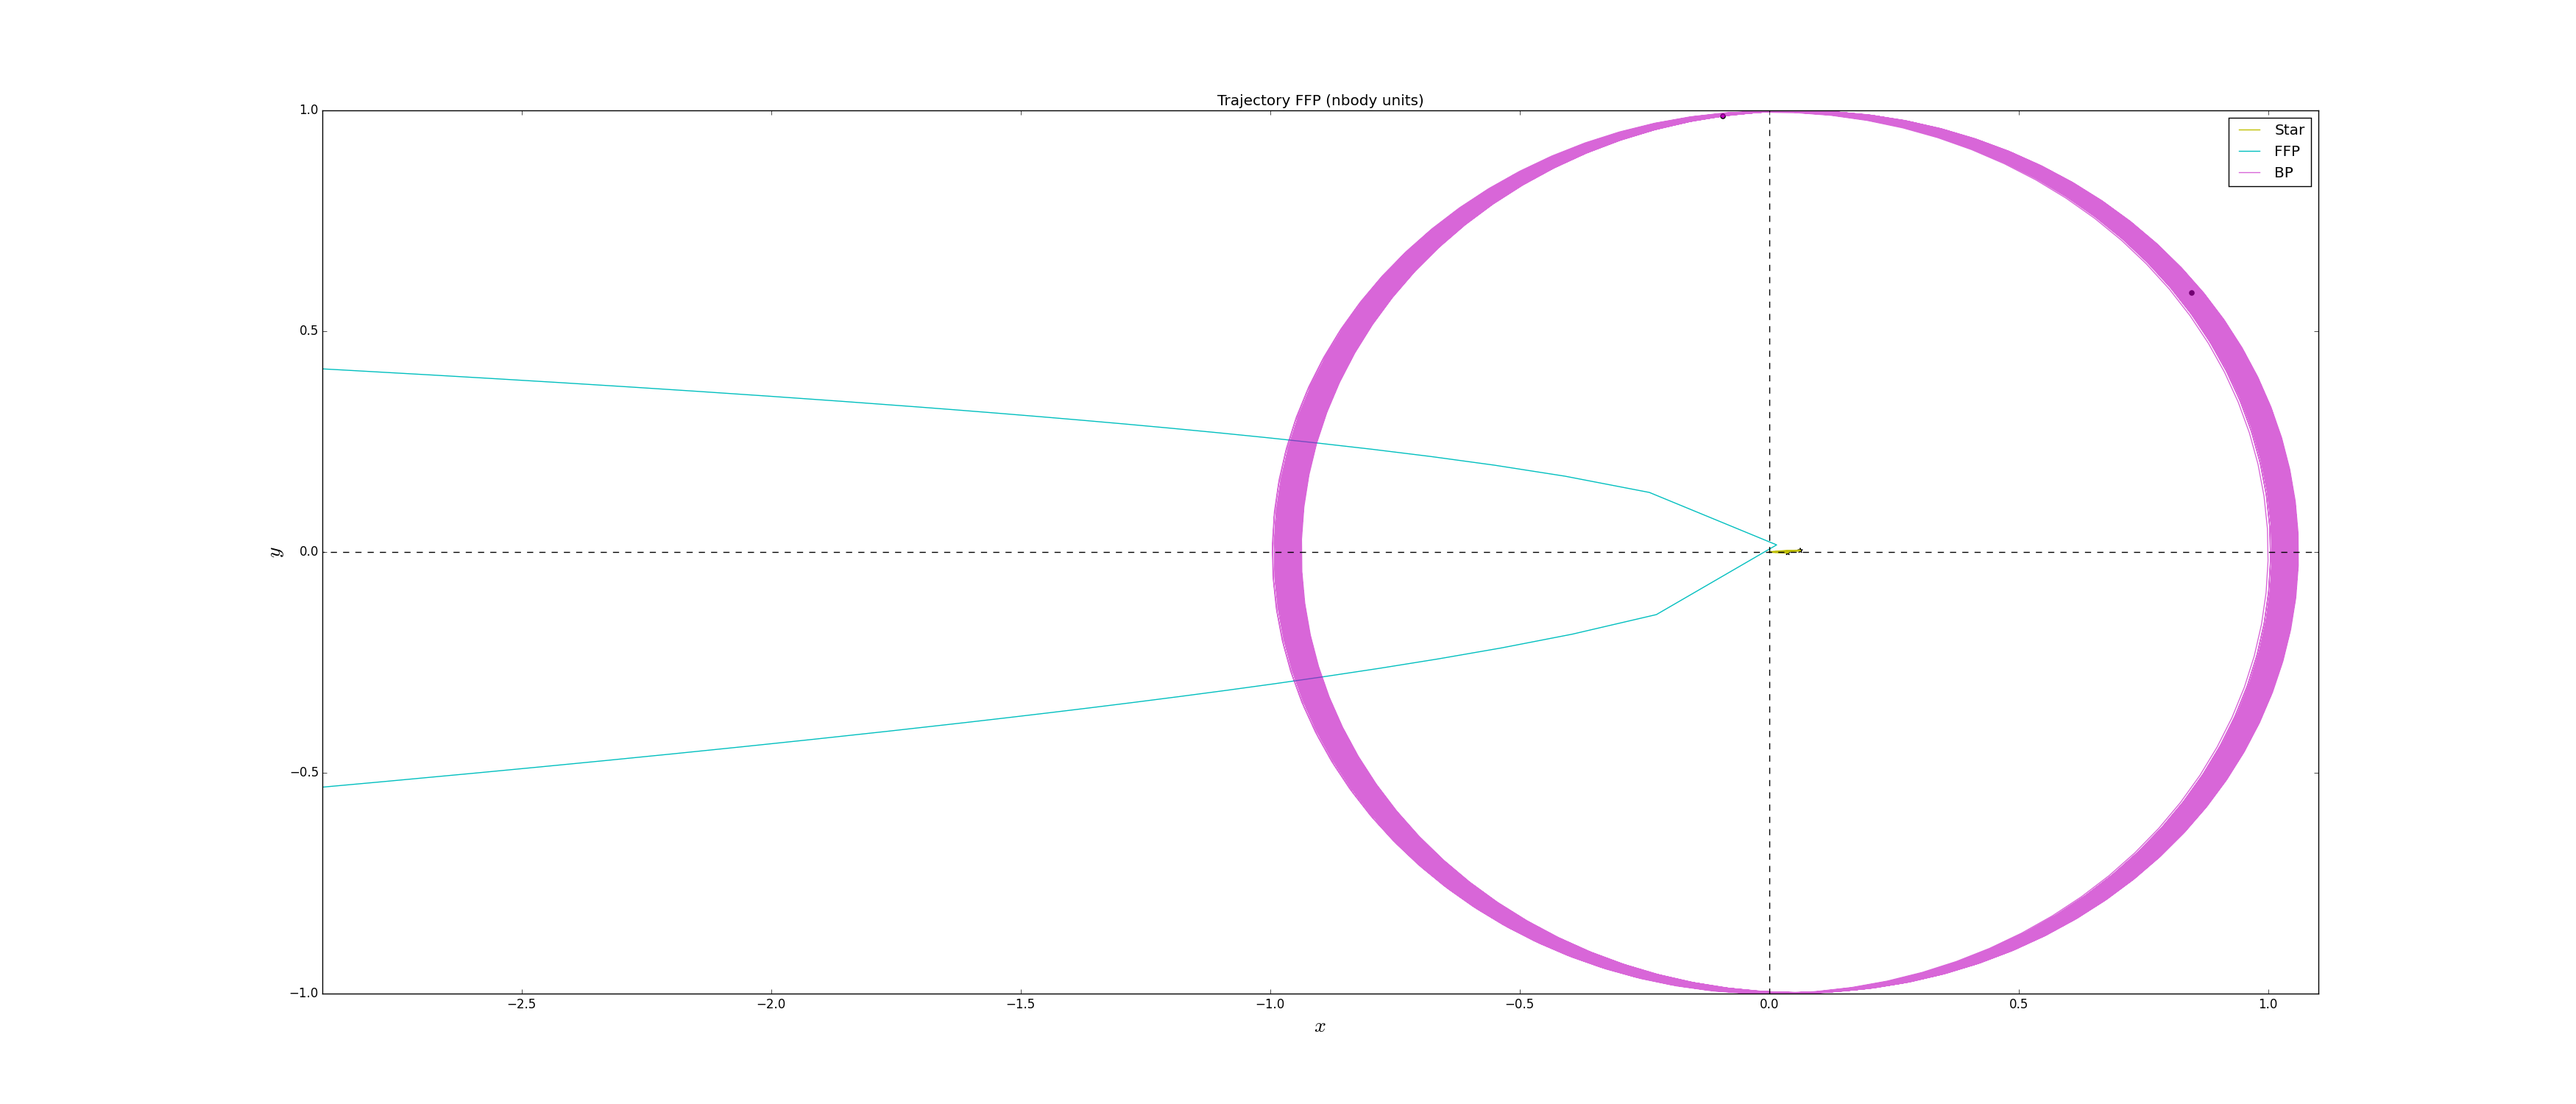
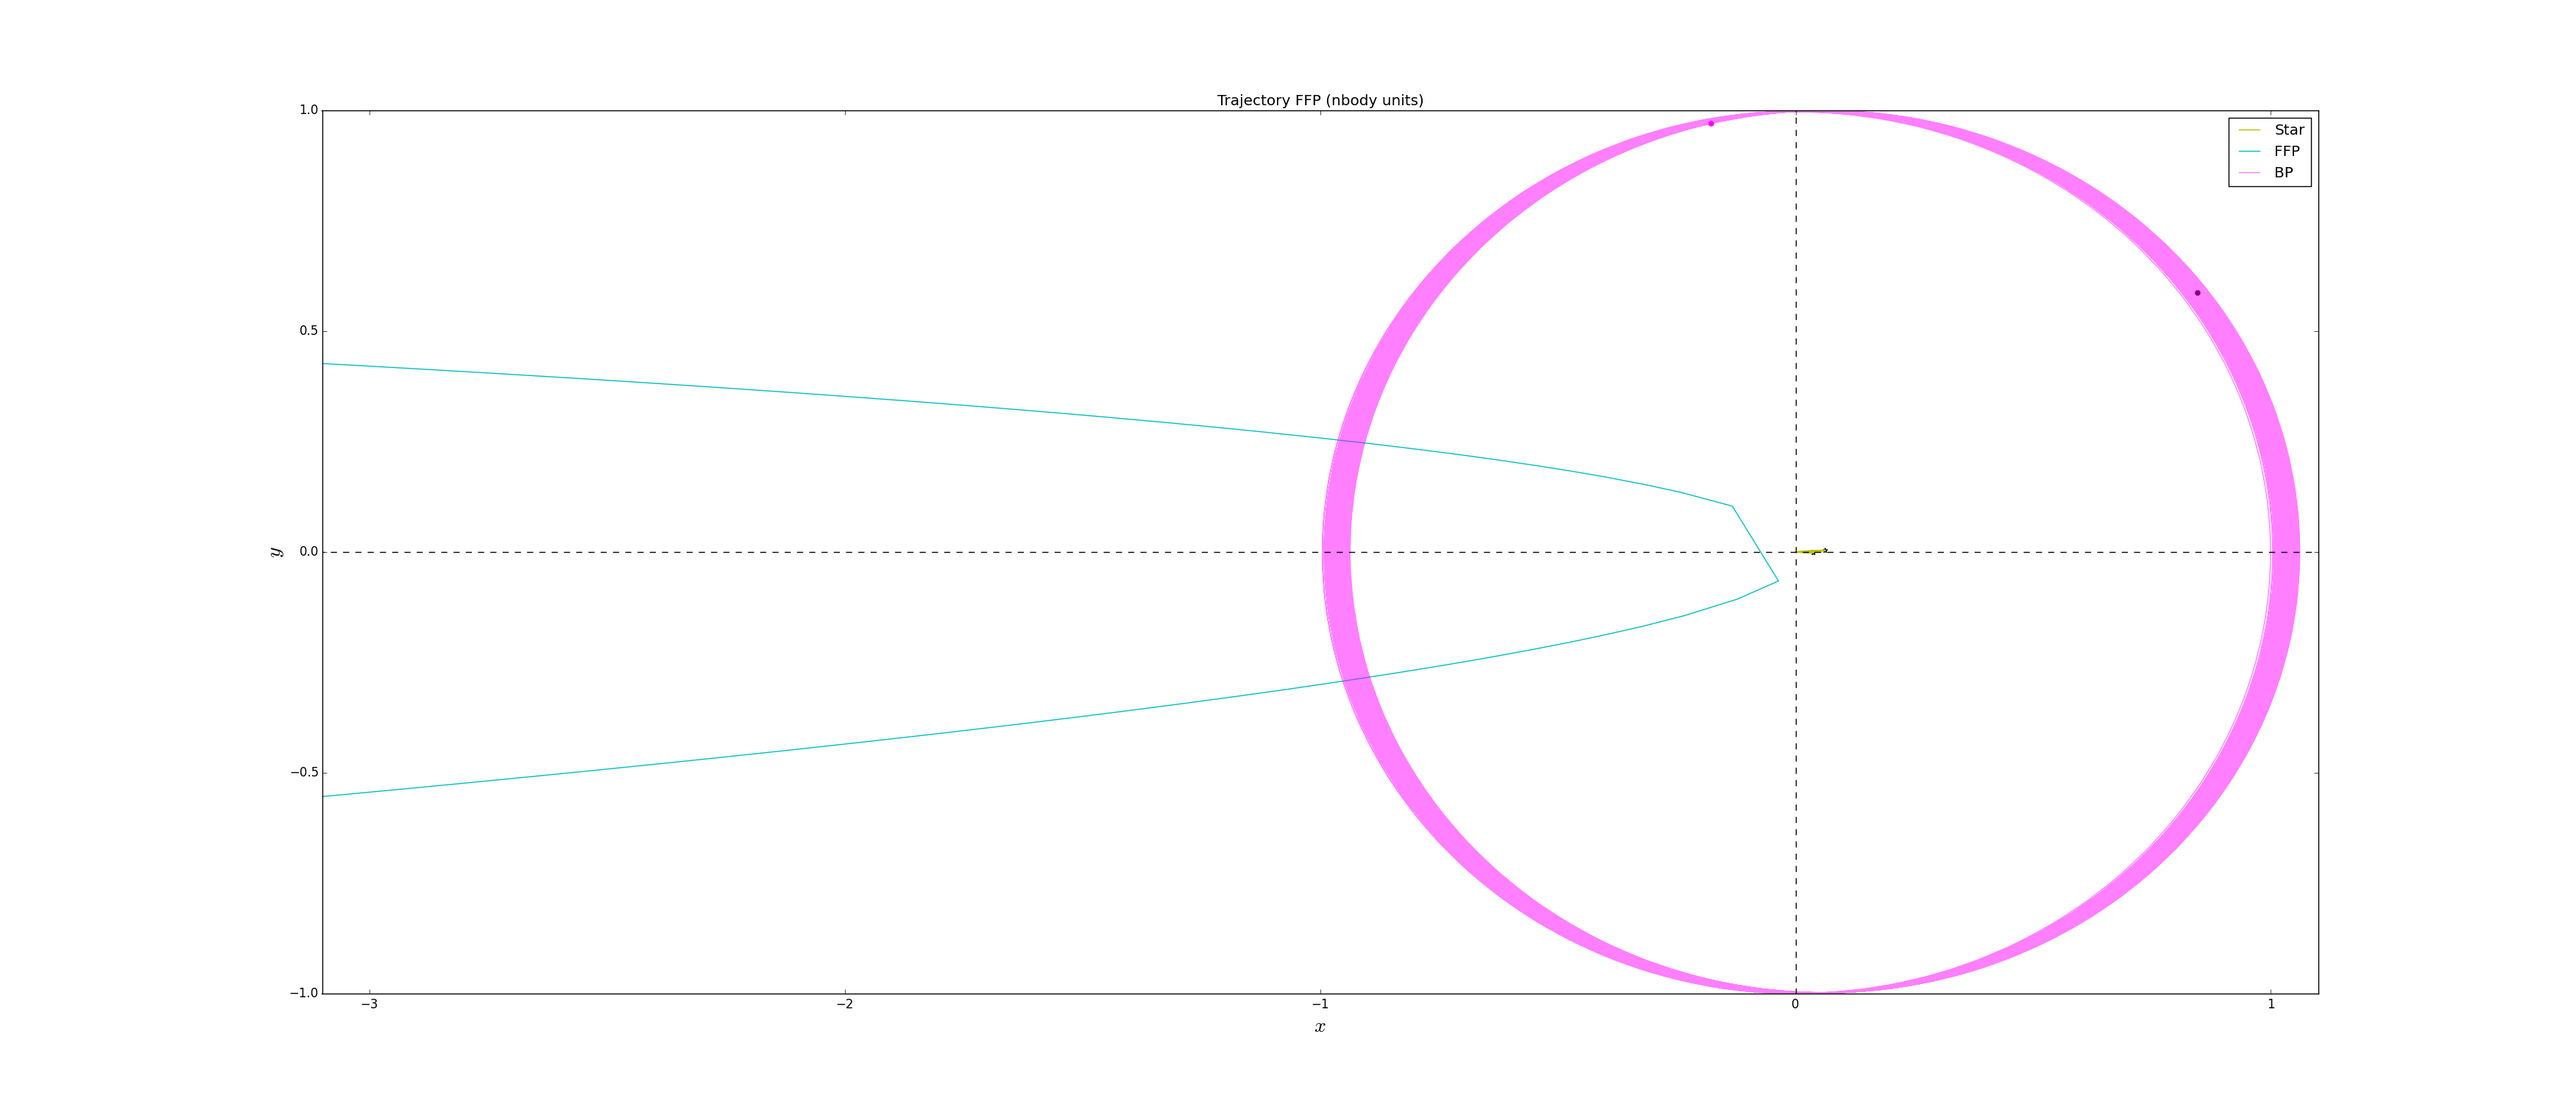
everything is working here

diff --git a/capture_ffp/capture_ffp.py b/capture_ffp/capture_ffp.py
@@ -39,21 +39,6 @@ def get_planets(m0, a_planets, m_planets, e_planets, phi=0.):
 
     return planets
 
-def get_ffp_in_orbit_2(m0, m, a, e, phi):
-
-    """
-    initialize attributes of the star and the ffp.
-    """
-
-    star_ffp = new_binary_from_orbital_elements(m0, m, a, e, true_anomaly=phi)
-    star_ffp.position -= star_ffp[0].position
-    star_ffp.velocity -= star_ffp[0].velocity
-
-    print star_ffp
-    print 'v_inf_orb =',(star_ffp[1].vx**2+star_ffp[1].vy**2+star_ffp[1].vz**2).sqrt()
-
-    return star_ffp
-
 def get_ffp_in_orbit(m0, b_ffp, vinf_ffp, m_ffp, r_inf):
     """
     initialize attributes of the star and the ffp.
@@ -77,6 +62,21 @@ def get_ffp_in_orbit(m0, b_ffp, vinf_ffp, m_ffp, r_inf):
     m0_and_ffp_in_orbit[1].vz = 0. | nbody_system.speed
 
     return m0_and_ffp_in_orbit
+
+def get_ffp_in_orbit_2(m0, m, a, e, phi):
+
+    """
+    initialize attributes of the star and the ffp.
+    """
+
+    star_ffp = new_binary_from_orbital_elements(m0, m, a, e, true_anomaly=phi)
+    star_ffp.position -= star_ffp[0].position
+    star_ffp.velocity -= star_ffp[0].velocity
+
+    print star_ffp
+    print 'v_inf_orb =',(star_ffp[1].vx**2+star_ffp[1].vy**2+star_ffp[1].vz**2).sqrt()
+
+    return star_ffp
 
 def energies_binaries(bodies, indexA, indexB):
     """
@@ -167,8 +167,8 @@ def evolve_gravity(bodies, number_of_planets, converter, t_end, n_steps):
 
     print "Energy Change: max(|E_j - E_initial|)/E_initial = ", DeltaE_max/Etot_init
 
-    #results = ['flyby', 'temporary capture', 'exchange']
-    results = [0,1,2,-1]
+    results = ['flyby', 'temporary capture', 'exchange','nothing']
+    #results = [0,1,2,-1]
 
     planets_star_energies = []
 
@@ -300,108 +300,93 @@ def plot_orbital_elements(times,eccentricities,semimajoraxes,number_of_planets):
     savefig('orbitalelements.png')
     close()
 
-def new_option_parser():
+def convert_units(converter, t_end_p, m0_p, m_ffp_p, vinf_p, m_planets_p, a_planets_p, e_planets_p, n_steps_p, phi_p, b_p):
 
-    result = argparse.ArgumentParser()
+    #time of integration in yr
+    t_end = converter.to_nbody(t_end_p | units.yr)
 
-    #Fixed parameters
-    result.add_argument("--t_end",
-                        dest="t_end", default = 650.0, type=float, action="store",
-                        help="time of integration in years [%default]") #paper 650 yr
-    result.add_argument("--m0",
-                        dest="m0", default = 1.0, type=float, action="store",
-                        help="mass of the disk-central star in MSun [%default]")
-    result.add_argument("--m_ffp",
-                        dest="m_ffp", default = 1.0, type=float, action="store",
-                        help="mass of the FFP MJupiter [%default]")
-    result.add_argument("--vinf",
-                        dest="vinf", default = 3.0, type=float, action="store",
-                        help="velocity of the FFP at a large distance (infinity) in km/s [%default]")
-    result.add_argument("--m_planets",
-                        dest = "m_planets", default = [1.0], type=float, action="store", nargs='*',
-                        help="list of the masses of the bounded planets in MJupiter [%default]")
-    result.add_argument("--a_planets",
-                        dest = "a_planets", default = [5.0], type=float, action="store", nargs='*',
-                        help="list of the semimajor axes of the bounded planets in AU [%default]")
-    result.add_argument("--e_planets",
-                        dest = "e_planets", default = [0.0], type=float, action="store", nargs='*',
-                        help="list of the eccentricities of the bounded planets [%default]") #circular orbit
+    #mass of the disk-central star in MSun
+    m0 = converter.to_nbody(m0_p | units.MSun)
 
-    #Steps of integrator
-    result.add_argument("--n_steps",
-                        dest="n_steps", default = 5000, type=int, action="store",
-                        help="number of steps for the integrator [%default]")
+    #mass of the FFP MJupiter
+    m_ffp = converter.to_nbody(m_ffp_p | units.MJupiter)
 
-    #Variable parameters
-    result.add_argument("--phi",
-                        dest="phi", default = 0., type=float, action="store",
-                        help="initial angle for of the bounded planet in degrees[%default]")
-    result.add_argument("--b",
-                        dest="b", default = 5.0, type=float, action="store",
-                        help="impact parameter of the FFP in AU [%default]")
+    #velocity of the FFP at a large distance (infinity) in km/s
+    vinf = converter.to_nbody(vinf_p | units.kms)
 
-    return result
+    #list of the masses of the bounded planets in MJupiter
+    m_planets = converter.to_nbody(m_planets_p | units.MJupiter)
 
-def get_initial_parameters(converter):
+    #list of the semimajor axes of the bounded planets in AU
+    a_planets = converter.to_nbody(a_planets_p | units.AU)
 
-    #Options
-    arg = new_option_parser().parse_args()
+    #list of the eccentricities of the bounded planets
+    e_planets = e_planets_p
 
-    #Fixed parameters
-    m0 = converter.to_nbody(arg.m0 | units.MSun)
-    m_ffp = converter.to_nbody(arg.m_ffp | units.MJupiter)
-    t_end = converter.to_nbody(arg.t_end | units.yr)
-    n_steps = arg.n_steps
+    #number of steps for the integrator
+    n_steps = n_steps_p
 
-    #Planets masses and semimajor axes
-    m_planets = converter.to_nbody( arg.m_planets | units.MJupiter )
-    a_planets = converter.to_nbody( arg.a_planets | units.AU )
-    e_planets = arg.e_planets
-    number_of_planets  = len(m_planets)
+    #initial angle for of the bounded planet in degrees
+    phi = phi_p
 
-    #Variable parameters
-    phi = arg.phi
-    b = converter.to_nbody(arg.b | units.AU)
+    #impact parameter of the FFP in AU
+    b = converter.to_nbody(b_p | units.AU)
 
     #Set the velocity of FFP assuming parabolic orbit with respect to the star
-    if arg.vinf is None:
-        mu = m0*m_ffp / (m0 + m_ffp)
-        ep_m0_ffp = ((1.0 | nbody_system.length)**3 * nbody_system.mass**-1 * nbody_system.time**-2)*m0*m_ffp / ((b**2 + r_inf**2).sqrt())
-        vx_ffp = (2.*ep_m0_ffp/mu).sqrt()
-        vinf = vx_ffp
-    else:
-        vinf = converter.to_nbody(arg.vinf | units.kms)
+    mu = m0*m_ffp / (m0 + m_ffp)
+    ep_m0_ffp = ((1.0 | nbody_system.length)**3 * nbody_system.mass**-1 * nbody_system.time**-2)*m0*m_ffp / ((b**2 + r_inf**2).sqrt())
+    vx_ffp = (2.*ep_m0_ffp/mu).sqrt()
+    print 'v_inf_theo =',vx_ffp
 
-    return t_end,n_steps,number_of_planets,m0,m_planets,a_planets,e_planets,m_ffp,phi,b,vinf
+    return t_end, m0, m_ffp, vinf, m_planets, a_planets, e_planets, n_steps, phi, b
 
+def run_capture(t_end_p=650.0, m0_p=1.0, m_ffp_p=1.0, vinf_p=3.0, m_planets_p=[1.0], a_planets_p=[5.0], e_planets_p=[0.0], n_steps_p=10000, phi_p=0.0, b_p=5.0):
 
-if __name__ in ('__main__', '__plot__'):
-
-    #Converter used in this program
-    converter = nbody_system.nbody_to_si(1 | units.MSun,  5 | units.AU)
+    """
+    Units: t_end(yr), m0(MSun), m_ffp(MJupiter), vinf(kms), m_planets(MJupiter), a_planets(AU), e_planets(None), n_steps(None), phi(degrees), b(AU)
+    """
 
     #Time starts
     start_time = time.time()
 
-    #Get initial parameters for the functions above
-    t_end,n_steps,number_of_planets,m0,m_planets,a_planets,e_planets,m_ffp,phi,b,vinf = get_initial_parameters(converter)
+    #Converter used in this program
+    converter = nbody_system.nbody_to_si(1 | units.MSun,  5 | units.AU)
+
+    #Conversion of units
+    t_end, m0, m_ffp, vinf, m_planets, a_planets, e_planets, n_steps, phi, b = convert_units(converter, t_end_p, m0_p, m_ffp_p, vinf_p, m_planets_p, a_planets_p, e_planets_p, n_steps_p, phi_p, b_p)
 
     #Initialize planets
     planets = get_planets(m0,a_planets,m_planets,e_planets,phi)
 
+    #Number of planets
+    number_of_planets = len(e_planets)
     #Initial distance to the planet (x-cordinate)
     r_inf = 40.*max(a_planets)
 
     #Initialize star and FFP
+    a_ffp = r_inf
+    b_ffp = b
+    e_ffp = (b_ffp/a_ffp)**2 + 1
+
+    # phi_ffp = 180 + numpy.degrees(math.atan(r_0/r_inf))
+    print 'e_ffp =',e_ffp
+
+    #Set the parabolic orbit of the ffp around the star
+    #star_and_ffp_in_orbit = get_ffp_in_orbit_2(m0, m_ffp, a_ffp, e_ffp, phi_ffp)
     star_and_ffp_in_orbit = get_ffp_in_orbit(m0,b,vinf,m_ffp,r_inf)
 
     #Particle superset: star, FFP, planets
     bodies = ParticlesSuperset([star_and_ffp_in_orbit, planets])
 
+    #Evolve time
     x,y,times,energies,eccentricities,semimajoraxes = evolve_gravity(bodies,number_of_planets,converter,t_end,n_steps)
 
     plot_trajectory(x,y,number_of_planets)
-    plot_energy(times, energies)
+    #plot_energy(times, energies)
     #plot_orbital_elements(times,eccentricities,semimajoraxes,number_of_planets)
 
     print '\nTime:', time.time()-start_time, 'seconds.'
+
+if __name__ in ('__main__', '__plot__'):
+
+    run_capture()

diff --git a/capture_ffp/run_code.py b/capture_ffp/run_code.py
@@ -1,26 +1,29 @@
-import os
-import numpy as np
+import capture_ffp
 
-#Parameter Space
+t_end = 650.0 #yr
+m0 = 1.0 #MSun
+m_ffp = 1.0 #MJupiter
+vinf = 3.0 #kms
+m_planets = [1.0] #MJupiter
+a_planets = [5.0] #AU
+e_planets = [0.0]
+# m_planets = [1.0,2.0] #MJupiter
+# a_planets = [5.0,8.0] #AU
+# e_planets = [0.0,0.0]
+n_steps = 10000
 
-# -4r_0 < b < 4r_0
-#bs = np.linspace(-4*5,4*5,10)
-
-# 0 < phi < 0.7 (where 1=360 degrees)
-#phis = np.linspace(0,360*0.7,10)
-
-bs = [1.0]
-phis = [360*0.1]
-
-m_planets = '1.0 2.0'
-a_planets = '5.0 8.0'
-e_planets = '0.0 0.0'
-
-n_steps = 4000
+bs = [5.0] #AU
+phis = [360*0.1] #degrees
 
 for b in bs:
     for phi in phis:
-        long_command = 'amuse capture_ffp.py --b '+str(b)+' --phi '+str(phi)+' --m_planets '+m_planets+' --a_planets '+a_planets+' --e_planets '+e_planets+' --n_steps '+str(n_steps)+' > results.txt'
-        #command = 'amuse capture_ffp.py --b '+str(b)+' --phi '+str(phi)+' > results.txt'
-        #os.system(command)
-        os.system(long_command)
+        capture_ffp.run_capture(t_end_p=t_end,
+                                m0_p=m0,
+                                m_ffp_p=m_ffp,
+                                vinf_p=vinf,
+                                m_planets_p=m_planets,
+                                a_planets_p=a_planets,
+                                e_planets_p=e_planets,
+                                n_steps_p=n_steps,
+                                phi_p=phi,
+                                b_p=b)
